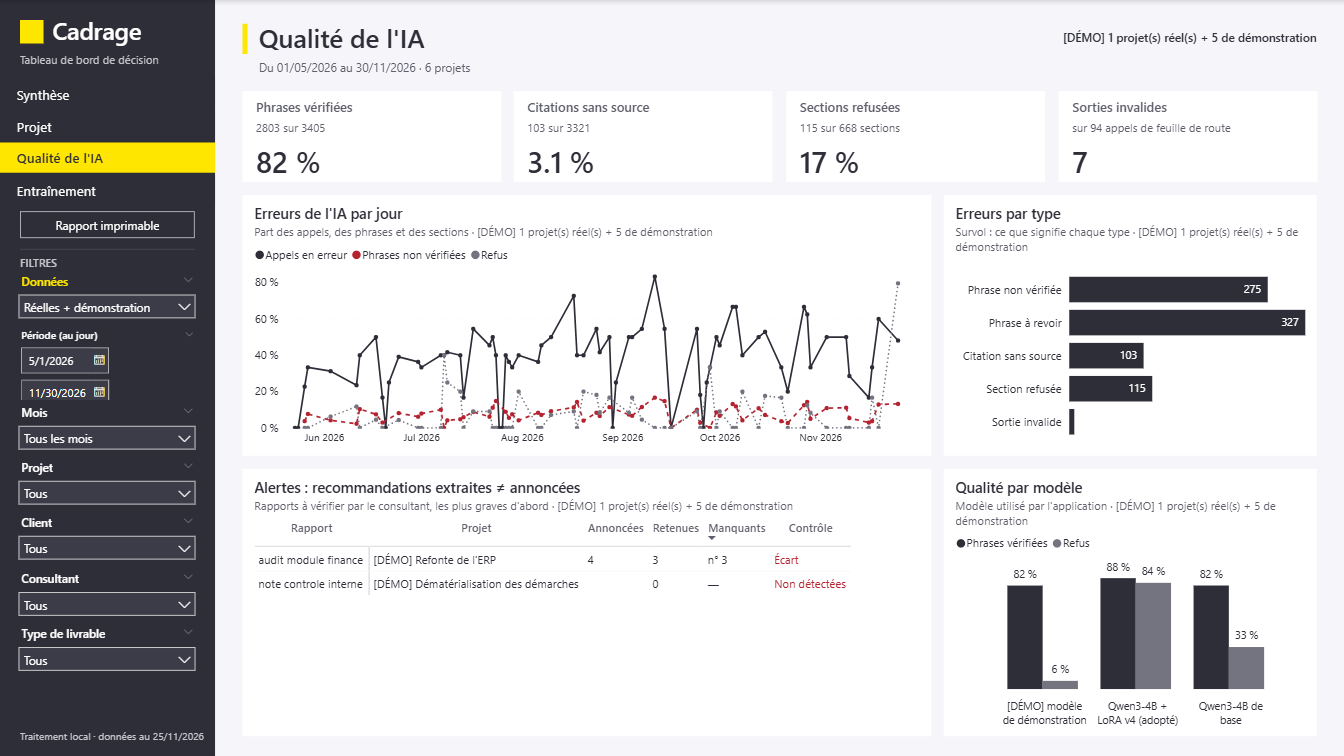
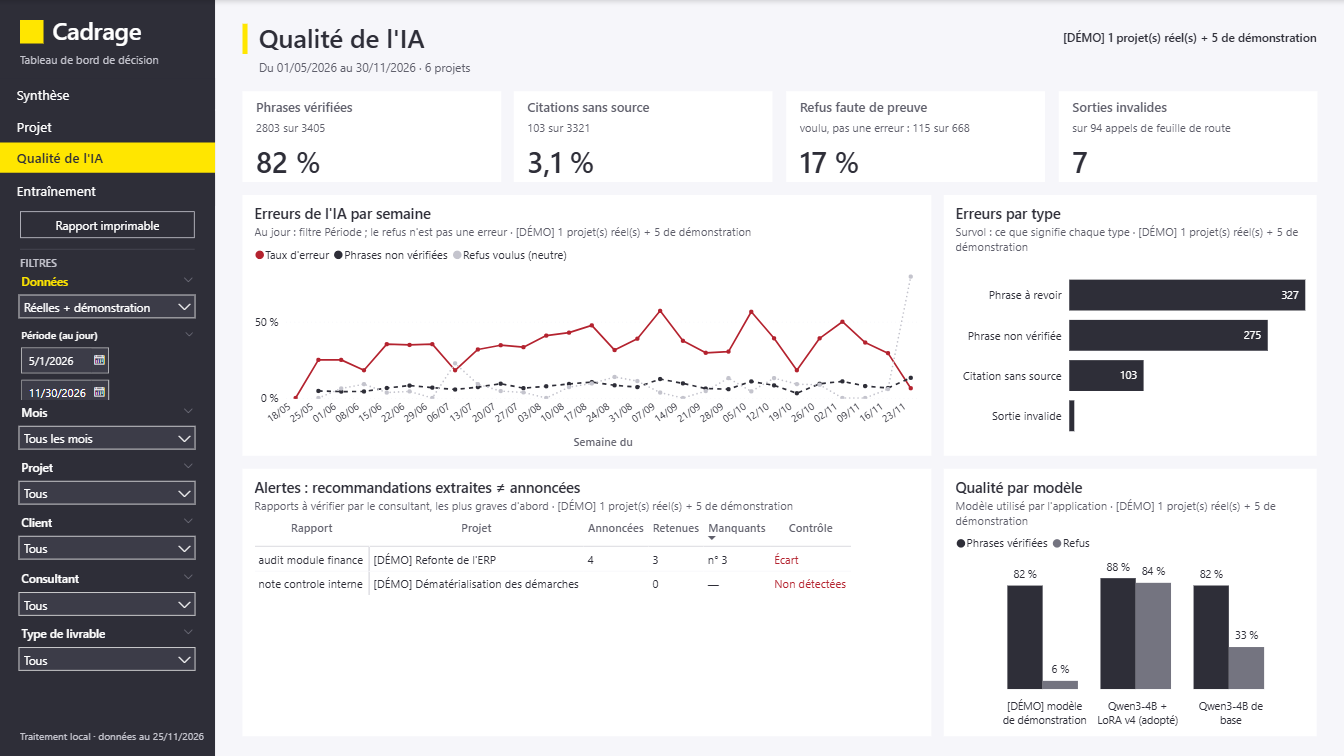
Power BI : refus séparé des erreurs, virgule décimale, courbe à la semaine, périmètre des alertes
- Taux d'erreur hors refus voulus (sorties invalides, phrases non vérifiées, citations sans source) ; refus en gris neutre
- Cartes décimales en texte formaté (22,4 s ; 3,1 % ; 0,165)
- Erreurs par type triées par valeur ; courbe par semaine, le jour restant accessible par le filtre Période
- Rapports en alerte et première action précisent leur périmètre (ce projet ou N projets)

diff --git a/bi/pbip/rapport.py b/bi/pbip/rapport.py
@@ -62,7 +62,8 @@ RESPONSIVES = ("barChart", "clusteredBarChart", "clusteredColumnChart", "columnC
 # Couleurs par valeur : la même partout (charte : rouge réservé à ce qui demande une action)
 COULEURS_ETAT = {"Brouillon": GRIS_CLAIR, "En relecture": JAUNE, "Approuvé": ANTHRACITE, "Renvoyé": ROUGE}
 COULEURS_GRAVITE = {"Élevée": ANTHRACITE, "Moyenne": GRIS, "Faible": GRIS_CLAIR}
-COULEURS_RESULTAT = {"Réussi": ANTHRACITE, "Refus (preuves insuffisantes)": GRIS, "Sortie invalide": ROUGE}
+COULEURS_RESULTAT = {"Réussi": ANTHRACITE, "Refus voulu (preuve insuffisante)": GRIS_CLAIR,
+                     "Réussi, avec phrase ou citation fautive": "#E08A93", "Sortie invalide": ROUGE}
 COULEURS_MODELE = {"Modèle de base": GRIS_CLAIR, "Essai 1": GRIS, "v4 (adopté)": JAUNE, "v5": ANTHRACITE}
 COULEURS_VAGUE = {"Vague 1": JAUNE, "Vague 2": GRIS, "Vague 3": GRIS_CLAIR}
 COULEURS_ESSAI = {"Essai 1": GRIS, "v4": JAUNE, "v5": ANTHRACITE}
@@ -349,7 +350,7 @@ class Page:
 
 # ---------------------------------------------------------------- champs
 PROJET, CLIENT = col("Projets", "Projet"), col("Projets", "Client")
-MOIS, DATE = col("Calendrier", "Mois"), col("Calendrier", "Date")
+MOIS, DATE, SEMAINE = col("Calendrier", "Mois"), col("Calendrier", "Date"), col("Calendrier", "Semaine")
 ETAT, TYPE = col("Livrables", "État"), col("Types de livrable", "Type de livrable")
 TYPE_COURT = col("Types de livrable", "Type")
 RESULTAT, MODELE = col("Générations", "Résultat"), col("Générations", "Modèle")
@@ -384,7 +385,7 @@ def appels_par_mois(p: Page, boite: tuple, titre: str = "Appels au modèle par m
                 {"Category": [MOIS], "Series": [RESULTAT], "Y": [(appels, "Appels")],
                  "Tooltips": [(mes("Taux d'erreur de l'IA"), "Taux d'erreur de l'IA"),
                               (mes("Temps moyen par appel"), "Temps moyen par appel")]},
-                titre, "Selon le résultat", {
+                titre, "Rouge : erreurs ; gris clair : refus voulus", {
                     "categoryAxis": axe(gridlineShow=False, fontSize=10.0),
                     "valueAxis": axe(start=0.0, fontSize=9.5, gridlineShow=True, gridlineColor=FOND),
                     "legend": legende(),
@@ -426,8 +427,8 @@ def synthese() -> Page:
     p = Page("synthese")
     p.entete()
     p.cartes([("Projets", "Projets", "Note projets"), ("Livrables", "Livrables", "Note livrables"),
-              ("Taux d'erreur de l'IA", "Taux d'erreur de l'IA", "Note erreur"),
-              ("Temps moyen par appel", "Temps moyen par appel", "Note temps"),
+              ("Taux d'erreur de l'IA", "Taux d'erreur (hors refus)", "Note erreur"),
+              ("Temps moyen affiché", "Temps moyen par appel", "Note temps"),
               ("Entraînements", "Entraînements réalisés", "Note entraînements")])
     y1, h1 = 232, 318
     appels_par_mois(p, (X0, y1, 820, h1))
@@ -510,24 +511,25 @@ def qualite() -> Page:
     p = Page("qualite")
     p.entete()
     p.cartes([("Taux de phrases vérifiées", "Phrases vérifiées", "Note vérifiées"),
-              ("Taux de citations sans source", "Citations sans source", "Note citations"),
-              ("Taux de refus", "Sections refusées", "Note refus"),
+              ("Citations sans source affiché", "Citations sans source", "Note citations"),
+              ("Taux de refus", "Refus faute de preuve", "Note refus"),
               ("Sorties invalides", "Sorties invalides", "Note invalides")])
     y1, h1 = 232, 310
     nv, rf, er = mes("Taux de phrases non vérifiées"), mes("Taux de refus"), mes("Taux d'erreur de l'IA")
     p.graphique("tendance", "lineChart", (X0, y1, 820, h1),
-                {"Category": [DATE], "Y": [(er, "Appels en erreur"), (nv, "Phrases non vérifiées"), (rf, "Refus")],
+                {"Category": [SEMAINE], "Y": [(er, "Taux d'erreur"), (nv, "Phrases non vérifiées"),
+                                              (rf, "Refus voulus (neutre)")],
                  "Tooltips": [(mes("Appels au modèle"), "Appels au modèle")]},
-                "Erreurs de l'IA par jour", "Part des appels, des phrases et des sections", {
-                    "categoryAxis": axe(axisType="Scalar", fontSize=9.0, gridlineShow=False),
+                "Erreurs de l'IA par semaine", "Au jour : filtre Période ; le refus n'est pas une erreur", {
+                    "categoryAxis": axe("Semaine du", axisType="Categorical", fontSize=9.0, gridlineShow=False),
                     "valueAxis": axe(start=0.0, fontSize=9.5, gridlineShow=True, gridlineColor=FOND),
                     "legend": legende(),
                     "labels": [props(show=False)],
                     "lineStyles": [props(strokeWidth=2.0, showMarker=True, markerSize=3.0),
                                    props(serie(nv), lineStyle="dashed"), props(serie(rf), lineStyle="dotted")],
-                    "dataPoint": [props(serie(er), fill=ANTHRACITE), props(serie(nv), fill=ROUGE),
-                                  props(serie(rf), fill=GRIS)]},
-                tri=(DATE, "Ascending"))
+                    "dataPoint": [props(serie(er), fill=ROUGE), props(serie(nv), fill=ANTHRACITE),
+                                  props(serie(rf), fill=GRIS_CLAIR)]},
+                tri=(SEMAINE, "Ascending"))
     erreurs = mes("Erreurs")
     p.graphique("types", "clusteredBarChart", (X0 + 820 + G, y1, LC - 820 - G, h1),
                 {"Category": [TYPE_ERREUR], "Y": [(erreurs, "Erreurs")], "Tooltips": [EXPLICATION]},
@@ -536,7 +538,7 @@ def qualite() -> Page:
                     "valueAxis": sans_axe(start=0.0),
                     "labels": etiquettes(labelPosition="InsideEnd", color=BLANC),
                     "dataPoint": [props(serie(erreurs), fill=ANTHRACITE)]},
-                tri=(col("Types d'erreur", "Type d'erreur"), "Ascending"))
+                tri=(erreurs, "Descending"))
     y2 = y1 + h1 + G
     p.matrice("alertes", (X0, y2, 820, BAS - y2), [RAPPORT],
               [("Alerte projet", "Projet"), ("Alerte annoncées", "Annoncées"), ("Alerte retenues", "Retenues"),
@@ -562,7 +564,7 @@ def entrainement() -> Page:
     p = Page("entrainement")
     p.entete(mention="Valeurs réelles des entraînements")
     p.cartes([("Entraînements", "Entraînements", "Note essais"), ("Modèle adopté", "Modèle adopté", "Note modèle adopté"),
-              ("Meilleure erreur du modèle adopté", "Erreur de validation retenue", "Note erreur adoptée"),
+              ("Meilleure erreur affichée", "Erreur de validation retenue", "Note erreur adoptée"),
               ("Exemples d'entraînement", "Exemples d'entraînement", "Note exemples")])
     y1, h1 = 232, 236
     p.matrice("essais", (X0, y1, LC, h1), [ESSAI],

diff --git a/bi/pbip/indicateurs.py b/bi/pbip/indicateurs.py
@@ -27,8 +27,7 @@ ERREURS = [
     ("failed", "Phrase non vérifiée", 1, "Le vérificateur ne retrouve pas la phrase dans la source citée."),
     ("warning", "Phrase à revoir", 2, "Appui faible : la source ne soutient la phrase qu'en partie."),
     ("citation", "Citation sans source", 3, "La source citée n'existe pas dans le dossier."),
-    ("refused", "Section refusée", 4, "Le modèle répond « preuves insuffisantes » : un refus peut être juste."),
-    ("invalid", "Sortie invalide", 5, "La réponse du modèle ne respecte pas le format attendu."),
+    ("invalid", "Sortie invalide", 4, "La réponse du modèle ne respecte pas le format attendu."),
 ]
 
 
@@ -83,8 +82,8 @@ def _base() -> list[Mesure]:
 
         Mesure("Appels en erreur", q, f"SUM({G}[En erreur]) + 0", ENTIER),
         Mesure("Taux d'erreur de l'IA", q, "DIVIDE([Appels en erreur], [Appels au modèle])", PCT,
-               "Part des appels avec au moins une erreur : refus, sortie invalide, phrase non vérifiée "
-               "ou citation sans source. Un refus peut être la bonne réponse : il est compté pour être regardé."),
+               "Part des appels avec au moins une erreur : sortie invalide, phrase non vérifiée ou citation sans "
+               "source. Un refus faute de preuve est le comportement voulu : il n'est pas compté, voir Taux de refus."),
         Mesure("Phrases générées", q, f"SUM({G}[Phrases produites]) + 0", ENTIER),
         Mesure("Phrases vérifiées", q, f"SUM({G}[Phrases validées]) + 0", ENTIER),
         Mesure("Taux de phrases vérifiées", q, "DIVIDE([Phrases vérifiées], [Phrases générées])", PCT,
@@ -103,8 +102,7 @@ def _base() -> list[Mesure]:
         Mesure("Appels feuille de route", q, compte(G, feuille), ENTIER),
         Mesure("Erreurs", q, "SWITCH(SELECTEDVALUE('Types d''erreur'[Code d'erreur]), "
                              '"failed", [Phrases non vérifiées], "warning", [Phrases à revoir], '
-                             '"citation", [Citations sans source], "refused", [Sections refusées], '
-                             '"invalid", [Sorties invalides])', ENTIER, "Erreurs du type choisi (table Types d'erreur)."),
+                             '"citation", [Citations sans source], "invalid", [Sorties invalides])', ENTIER, "Erreurs du type choisi (table Types d'erreur)."),
 
         Mesure("Rapports d'audit", r, "COUNTROWS(Rapports) + 0", ENTIER),
         Mesure("Recommandations annoncées", r, "SUM(Rapports[Annoncées]) + 0", ENTIER,
@@ -146,8 +144,9 @@ def _pire_section(taux: str, effectif: str, seuil: int) -> str:
 
 ACTIONS = [
     Action(1, "Contrôler les recommandations", "[Rapports en alerte] > 0", "Consultant",
-           '"Contrôler " & [Rapports en alerte] & " rapport(s) d\'audit : " & [Recommandations manquantes] + 0 & '
-           '" recommandation(s) manquante(s) ou non détectée(s). Page Recommandations du dossier."',
+           '"Contrôler " & [Rapports en alerte] & " rapport(s) d\'audit " & [Portée] & " : " & '
+           '[Recommandations manquantes] + 0 & " recommandation(s) manquante(s) ou non détectée(s). '
+           'Page Recommandations du dossier."',
            "au moins un rapport en alerte (trou ou doublon de numérotation, ou aucune recommandation détectée)"),
     Action(2, "Relancer la feuille de route", f"DIVIDE([Sorties invalides], [Appels feuille de route]) >= {SEUIL_INVALIDES}",
            "Consultant",
@@ -223,15 +222,21 @@ def _texte(m: dict[str, str]) -> None:
                                           '[Recommandations annoncées] & " annoncées"')
     m["Note projets"] = 'IF([Projets de démonstration] > 0, "dont " & [Projets de démonstration] & " [DÉMO]", "réels")'
     m["Note livrables"] = '[En relecture] & " en relecture · " & [Renvoyés] & " renvoyé(s)"'
-    m["Note erreur"] = '[Appels en erreur] & " appels sur " & [Appels au modèle] + 0'
+    m["Note erreur"] = ('[Appels en erreur] & " sur " & [Appels au modèle] + 0 & " · refus : " & '
+                        'FORMAT([Taux de refus], "0 %")')
+    m["Portée"] = ('IF(HASONEVALUE(Projets[Projet]), "dans ce projet", '
+                   '"sur " & [Projets] & " projet(s)")')
+    m["Temps moyen affiché"] = 'FORMAT([Temps moyen par appel], "0.0") & " s"'
+    m["Citations sans source affiché"] = 'FORMAT([Taux de citations sans source], "0.0 %")'
+    m["Meilleure erreur affichée"] = 'FORMAT([Meilleure erreur du modèle adopté], "0.000")'
     m["Note temps"] = '"par appel au modèle, PC local"'
     m["Note entraînements"] = '"dont " & [Entraînements adoptés] & " adopté : " & [Modèle adopté]'
     m["Note vérifiées"] = '[Phrases vérifiées] & " sur " & [Phrases générées]'
     m["Note citations"] = '[Citations sans source] & " sur " & [Citations générées]'
-    m["Note refus"] = '[Sections refusées] & " sur " & [Sections générées] & " sections"'
+    m["Note refus"] = '"voulu, pas une erreur : " & [Sections refusées] & " sur " & [Sections générées]'
     m["Note invalides"] = '"sur " & [Appels feuille de route] & " appels de feuille de route"'
     m["Note recommandations"] = '[Recommandations validées] + 0 & " validées · " & [Recommandations à valider] + 0 & " à valider"'
-    m["Note rapports"] = '[Rapports en alerte] & " en alerte"'
+    m["Note rapports"] = '[Portée] & " · " & [Rapports d\'audit] & " rapport(s) lu(s)"'
     m["Note constats"] = '[Constats à valider] & " à valider"'
     m["Note documents"] = '[Rapports d\'audit] & " rapport(s) d\'audit"'
     m["Note modèle adopté"] = '"meilleure erreur " & FORMAT([Meilleure erreur du modèle adopté], "0.000")'

diff --git a/bi/pbip/modele.py b/bi/pbip/modele.py
@@ -121,7 +121,8 @@ CONTROLES = {"ok": "Cohérent", "ecart": "Écart", "non_detectees": "Non détect
              "non_lu": "Pas encore lu"}
 STATUTS_RECO = {"proposed": "À valider", "validated": "Validée", "deleted": "Supprimée", "merged": "Fusionnée"}
 ORIGINES = {"rules": "Relevée dans le rapport", "consultant": "Ajoutée par le consultant"}
-RESULTATS = {"ok": "Réussi", "refused": "Refus (preuves insuffisantes)", "invalid": "Sortie invalide"}
+RESULTATS = {"ok": "Réussi", "refused": "Refus voulu (preuve insuffisante)", "invalid": "Sortie invalide"}
+AVEC_ERREUR = "Réussi, avec phrase ou citation fautive"
 MODELES = {"base": "Modèle de base", "essai1": "Essai 1", "v4": "v4 (adopté)", "v5": "v5"}
 MOIS = ["Janv.", "Févr.", "Mars", "Avr.", "Mai", "Juin", "Juil.", "Août", "Sept.", "Oct.", "Nov.", "Déc."]
 VERS_DATE = ("(k as number) as date => #date(Number.IntegerDivide(k, 10000), "
@@ -175,10 +176,14 @@ def tables_de_faits() -> dict[str, str]:
     ]
     t["Générations"] = table_tmdl("Générations", cols, depuis_vue("v_generation", cols) + [
         ("AvecSection", 'Table.AddColumn(Typage, "cle_section", each [type_code] & "|" & [section_code], type text)'),
-        ("AvecResultat", f'Table.AddColumn(AvecSection, "resultat", {m_libelle("status", RESULTATS, "Autre")})'),
+        # Un refus faute de preuve est le comportement voulu : ce n'est pas une erreur.
+        ("AvecErreur", 'Table.AddColumn(AvecSection, "en_erreur", each if [status] = "invalid" or '
+                       '([status] = "ok" and ([sentences_failed] > 0 or [citations_valid] < [citations_total])) '
+                       'then 1 else 0, Int64.Type)'),
+        ("AvecResultat", f'Table.AddColumn(AvecErreur, "resultat", each if [status] = "ok" and [en_erreur] = 1 then '
+                         f'{m_texte(AVEC_ERREUR)} else Record.FieldOrDefault({m_libelles(RESULTATS)}, [status], "Autre"), '
+                         'type text)'),
         ("AvecModele", f'Table.AddColumn(AvecResultat, "modele", {libelle_modele()})'),
-        ("AvecErreur", 'Table.AddColumn(AvecModele, "en_erreur", each if [status] <> "ok" or [sentences_failed] > 0 '
-                       'or [citations_valid] < [citations_total] then 1 else 0, Int64.Type)'),
     ])
 
     cols = [
@@ -378,6 +383,8 @@ def dimensions() -> dict[str, str]:
         Col("jour", "Date", DATE, masquee=False), Col("date_key", "Clé de date", ENTIER),
         Col("mois_key", "Clé de mois", ENTIER), Col("mois", "Mois", masquee=False, tri="Clé de mois"),
         Col("jour_court", "Jour", masquee=False, tri="Clé de date"),
+        Col("semaine_key", "Clé de semaine", ENTIER),
+        Col("semaine", "Semaine", masquee=False, tri="Clé de semaine"),
     ], bornes + [
         ("Base", "Table.FromColumns({Jours}, type table [jour = date])"),
         ("AvecCle", 'Table.AddColumn(Base, "date_key", each Date.Year([jour]) * 10000 + Date.Month([jour]) * 100 '
@@ -387,6 +394,12 @@ def dimensions() -> dict[str, str]:
         ("AvecMois", 'Table.AddColumn(AvecMoisCle, "mois", each NomMois([jour]), type text)'),
         ("AvecJour", 'Table.AddColumn(AvecMois, "jour_court", each Text.PadStart(Text.From(Date.Day([jour])), 2, "0") '
                      '& "/" & Text.PadStart(Text.From(Date.Month([jour])), 2, "0"), type text)'),
+        ("Lundi", "(d as date) as date => Date.StartOfWeek(d, Day.Monday)"),
+        ("AvecSemaineCle", 'Table.AddColumn(AvecJour, "semaine_key", each Date.Year(Lundi([jour])) * 10000 + '
+                           'Date.Month(Lundi([jour])) * 100 + Date.Day(Lundi([jour])), Int64.Type)'),
+        ("AvecSemaine", 'Table.AddColumn(AvecSemaineCle, "semaine", each '
+                        'Text.PadStart(Text.From(Date.Day(Lundi([jour]))), 2, "0") & "/" & '
+                        'Text.PadStart(Text.From(Date.Month(Lundi([jour]))), 2, "0"), type text)'),
     ])
     t["Choix du mois"] = choix("Choix du mois", "Mois choisi", TOUS_MOIS, "List.Transform(Jours, each NomMois(_))",
                                "List.Transform(Jours, each Date.Year(_) * 100 + Date.Month(_))", avant=bornes)

diff --git a/bi/pages.md b/bi/pages.md
@@ -20,9 +20,9 @@ sous-titre. Pied : « Traitement local · données au … ».
 
 | Page | Pour qui | Visuels | Décision |
 |---|---|---|---|
-| **Synthèse** | direction, responsable, consultant | 5 cartes (projets, livrables, taux d'erreur de l'IA, temps moyen par appel, entraînements) · colonnes empilées « appels au modèle par mois » selon le résultat · anneau « livrables par état » (brouillon, en relecture, approuvé, renvoyé) · barres « activité par projet » · panneau **Que faire ensuite** (3 actions calculées par règles) | quoi faire en premier, et qui le fait |
+| **Synthèse** | direction, responsable, consultant | 5 cartes (projets, livrables, taux d'erreur de l'IA hors refus voulus, temps moyen par appel, entraînements) · colonnes empilées « appels au modèle par mois » selon le résultat · anneau « livrables par état » (brouillon, en relecture, approuvé, renvoyé) · barres « activité par projet » · panneau **Que faire ensuite** (3 actions calculées par règles) | quoi faire en premier, et qui le fait |
 | **Projet** | consultant, responsable | fiche (logo, client, secteur, demande, dates) · 4 cartes (documents, recommandations retenues sur annoncées, rapports en alerte, constats) · barres « recommandations par rapport d'audit » (validées, à valider, **manquantes en rouge**) · barres « constats par axe et gravité » · barres « feuille de route : initiatives par axe et vague » · barres 100 % « avancement des livrables » · barres « qualité par section » (libellé lisible ; info-bulle : à quoi sert la section, livrable, phrases, refus) | quel rapport revoir, quel axe charger, quelle section reprendre |
-| **Qualité de l'IA** | consultant, profil technique | 4 cartes (phrases vérifiées, citations sans source, sections refusées, sorties invalides) · courbe « erreurs de l'IA par jour » · barres « erreurs par type » (info-bulle : ce que veut dire le type) · tableau « alertes : recommandations extraites ≠ annoncées » · colonnes « qualité par modèle » | où l'IA se trompe, et l'erreur vient-elle des documents ou du modèle |
+| **Qualité de l'IA** | consultant, profil technique | 4 cartes (phrases vérifiées, citations sans source, sections refusées, sorties invalides) · courbe « erreurs de l'IA par semaine » (le refus faute de preuve, voulu, à part en gris) · barres « erreurs par type » (info-bulle : ce que veut dire le type) · tableau « alertes : recommandations extraites ≠ annoncées » · colonnes « qualité par modèle » | où l'IA se trompe, et l'erreur vient-elle des documents ou du modèle |
 | **Entraînement** | profil technique, jury | 4 cartes (entraînements, modèle adopté, erreur de validation retenue, exemples) · tableau des 3 entraînements (date, plateforme, exemples, durée, meilleure erreur, arrêt, décision) · courbe de validation par pas · barres « réussite par tâche : base contre modèles entraînés » | garder v4, refaire un entraînement, ou corriger par le code |
 | **Rapport imprimable** (masquée, par bouton) | direction | 4 cartes · que faire ensuite · activité par mois · livrables par état · activité par projet · recommandations par rapport · limites | décider en réunion, papier en main |
 

diff --git a/bi/KPI.md b/bi/KPI.md
@@ -25,7 +25,7 @@ Chaque visuel qui mélange projets réels et de démonstration le dit dans son s
 | Activité | **Appels au modèle** | Chaque appel : une section, une extraction de constats, un regroupement en axes, des initiatives. | `#,0` |
 | Activité | **Temps moyen par appel** | Durée moyenne d'un appel au modèle, en secondes, sur le PC local. | `0.0 "s"` |
 | Qualité de l'IA | **Appels en erreur** | — | `#,0` |
-| Qualité de l'IA | **Taux d'erreur de l'IA** | Part des appels avec au moins une erreur : refus, sortie invalide, phrase non vérifiée ou citation sans source. Un refus peut être la bonne réponse : il est compté pour être regardé. | `0 %` |
+| Qualité de l'IA | **Taux d'erreur de l'IA** | Part des appels avec au moins une erreur : sortie invalide, phrase non vérifiée ou citation sans source. Un refus faute de preuve est le comportement voulu : il n'est pas compté, voir Taux de refus. | `0 %` |
 | Qualité de l'IA | **Phrases générées** | — | `#,0` |
 | Qualité de l'IA | **Phrases vérifiées** | — | `#,0` |
 | Qualité de l'IA | **Taux de phrases vérifiées** | Phrases retrouvées dans leur source par le vérificateur ÷ phrases générées. | `0 %` |
@@ -296,7 +296,7 @@ CALCULATE(COUNTROWS('Générations'), 'Générations'[Code de section] IN {"_axe
 
 ```dax
 Erreurs =
-SWITCH(SELECTEDVALUE('Types d''erreur'[Code d'erreur]), "failed", [Phrases non vérifiées], "warning", [Phrases à revoir], "citation", [Citations sans source], "refused", [Sections refusées], "invalid", [Sorties invalides])
+SWITCH(SELECTEDVALUE('Types d''erreur'[Code d'erreur]), "failed", [Phrases non vérifiées], "warning", [Phrases à revoir], "citation", [Citations sans source], "invalid", [Sorties invalides])
 ```
 
 ### Rapports d'audit
@@ -423,7 +423,7 @@ DIVIDE(SUM(Scores[Réussis]), SUM(Scores[Total]))
 ```dax
 Liste des actions =
 VAR t = FILTER({
-    (1, IF([Rapports en alerte] > 0, "Contrôler " & [Rapports en alerte] & " rapport(s) d'audit : " & [Recommandations manquantes] + 0 & " recommandation(s) manquante(s) ou non détectée(s). Page Recommandations du dossier." & "  [" & "Consultant" & "]", BLANK())),
+    (1, IF([Rapports en alerte] > 0, "Contrôler " & [Rapports en alerte] & " rapport(s) d'audit " & [Portée] & " : " & [Recommandations manquantes] + 0 & " recommandation(s) manquante(s) ou non détectée(s). Page Recommandations du dossier." & "  [" & "Consultant" & "]", BLANK())),
     (2, IF(DIVIDE([Sorties invalides], [Appels feuille de route]) >= 0.1, "Relancer la feuille de route : " & [Sorties invalides] & " réponse(s) du modèle au mauvais format sur " & [Appels feuille de route] & " appels." & "  [" & "Consultant" & "]", BLANK())),
     (3, IF([Taux de phrases non vérifiées] >= 0.1, "Revoir les sources de « " & [Section la moins vérifiée] & " » : " & FORMAT([Taux de phrases non vérifiées], "0 %") & " des phrases non vérifiées sur le périmètre." & "  [" & "Consultant" & "]", BLANK())),
     (4, IF([Taux de refus] >= 0.2, "Compléter les documents : le modèle refuse " & FORMAT([Taux de refus], "0 %") & " des sections faute de preuves, surtout « " & [Section la plus refusée] & " »." & "  [" & "Consultant" & "]", BLANK())),
